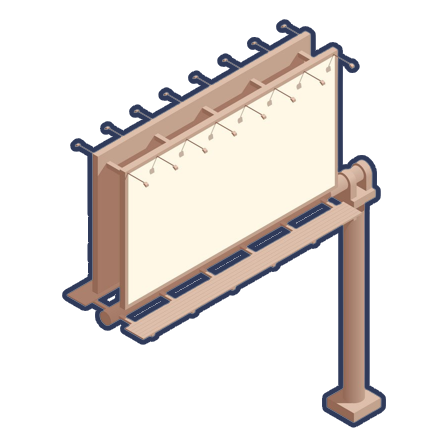
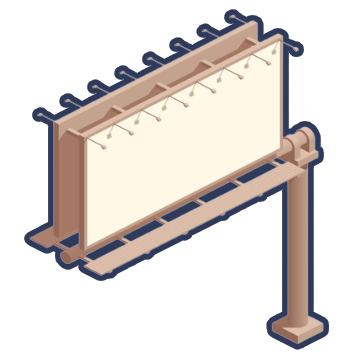
developed billboard

Changed region(s): [[0.0616, 0.0309, 0.9244, 0.9888]]

diff --git a/src/HonkTrooper/HonkTrooper/Pages/HonkBomberPage.xaml.cs b/src/HonkTrooper/HonkTrooper/Pages/HonkBomberPage.xaml.cs
@@ -1231,6 +1231,93 @@ namespace HonkTrooper
 
         #endregion
 
+        #region RoadSideBillboard
+
+        private bool SpawnRoadSideBillboards()
+        {
+            for (int i = 0; i < 3; i++)
+            {
+                RoadSideBillboard roadSideBillboard = new(
+                    animateAction: AnimateRoadSideBillboard,
+                    recycleAction: RecycleRoadSideBillboard);
+
+                roadSideBillboard.SetPosition(
+                    left: -3000,
+                    top: -3000);
+
+                _scene_game.AddToScene(roadSideBillboard);
+
+                SpawnDropShadow(source: roadSideBillboard);
+            }
+
+            return true;
+        }
+
+        private bool GenerateRoadSideBillboardTop()
+        {
+            if (_scene_game.Children.OfType<RoadSideBillboard>().FirstOrDefault(x => x.IsAnimating == false) is RoadSideBillboard roadSideBillboard)
+            {
+                roadSideBillboard.IsAnimating = true;
+
+                roadSideBillboard.SetPosition(
+                  left: (Constants.DEFAULT_SCENE_WIDTH / 2.1 - roadSideBillboard.Width) - 10,
+                  top: ((roadSideBillboard.Height * 1.5) * -1) - 10,
+                  z: 2);
+
+                SyncDropShadow(roadSideBillboard);
+
+                LoggerExtensions.Log("RoadSideBillboard generated.");
+
+                return true;
+            }
+
+            return false;
+        }
+
+        private bool GenerateRoadSideBillboardBottom()
+        {
+            if (_scene_game.Children.OfType<RoadSideBillboard>().FirstOrDefault(x => x.IsAnimating == false) is RoadSideBillboard tree)
+            {
+                tree.IsAnimating = true;
+
+                tree.SetPosition(
+                  left: (-1.9 * tree.Width),
+                  top: (Constants.DEFAULT_SCENE_HEIGHT / 3),
+                  z: 4);
+
+                SyncDropShadow(tree);
+
+                return true;
+            }
+
+            return false;
+        }
+
+        private bool AnimateRoadSideBillboard(Construct roadSideBillboard)
+        {
+            var speed = (_scene_game.Speed + roadSideBillboard.SpeedOffset);
+            MoveConstructBottomRight(construct: roadSideBillboard, speed: speed);
+            return true;
+        }
+
+        private bool RecycleRoadSideBillboard(Construct roadSideBillboard)
+        {
+            var hitBox = roadSideBillboard.GetHitBox();
+
+            if (hitBox.Top > Constants.DEFAULT_SCENE_HEIGHT || hitBox.Left > Constants.DEFAULT_SCENE_WIDTH)
+            {
+                roadSideBillboard.IsAnimating = false;
+
+                roadSideBillboard.SetPosition(
+                    left: -3000,
+                    top: -3000);
+            }
+
+            return true;
+        }
+
+        #endregion
+
         #region Honk
 
         private bool SpawnHonks()
@@ -3179,6 +3266,11 @@ namespace HonkTrooper
                 startUpAction: SpawnRoadSideStripes));
 
             _scene_game.AddToScene(
+
+                  new Generator(
+                   generationDelay: 120,
+                   generationAction: GenerateRoadSideBillboardTop,
+                   startUpAction: SpawnRoadSideBillboards),
 
                 new Generator(
                    generationDelay: 90,

diff --git a/src/HonkTrooper/HonkTrooper/Constructs/RoadSideBillboard.cs b/src/HonkTrooper/HonkTrooper/Constructs/RoadSideBillboard.cs
@@ -1,0 +1,53 @@
+using Microsoft.UI.Xaml.Controls;
+using Microsoft.UI.Xaml.Media.Imaging;
+using System;
+using System.Linq;
+
+namespace HonkTrooper
+{
+    public partial class RoadSideBillboard : Construct
+    {
+        #region Fields
+
+        private readonly Image _content_image;
+        private readonly Uri[] _tree_uris;
+
+        #endregion
+
+        #region Ctor
+
+        public RoadSideBillboard(
+            Func<Construct, bool> animateAction,
+            Func<Construct, bool> recycleAction)
+        {
+            ConstructType = ConstructType.ROAD_SIDE_BILLBOARD;
+
+            _tree_uris = Constants.CONSTRUCT_TEMPLATES.Where(x => x.ConstructType == ConstructType.ROAD_SIDE_BILLBOARD).Select(x => x.Uri).ToArray();
+
+            var size = Constants.CONSTRUCT_SIZES.FirstOrDefault(x => x.ConstructType == ConstructType.ROAD_SIDE_BILLBOARD);
+
+            var width = size.Width;
+            var height = size.Height;
+
+            AnimateAction = animateAction;
+            RecycleAction = recycleAction;
+
+            SetSize(width: width, height: height);
+
+            var uri = ConstructExtensions.GetRandomContentUri(_tree_uris);
+
+            _content_image = new Image()
+            {
+                Source = new BitmapImage(uriSource: uri)
+            };
+
+            SetChild(_content_image);
+
+            SpeedOffset = Constants.DEFAULT_SPEED_OFFSET;
+            IsometricDisplacement = Constants.DEFAULT_ISOMETRIC_DISPLACEMENT;
+            DropShadowDistance = -10;
+        }
+
+        #endregion
+    }
+}

diff --git a/src/HonkTrooper/HonkTrooper/Constants.cs b/src/HonkTrooper/HonkTrooper/Constants.cs
@@ -48,8 +48,9 @@ namespace HonkTrooper
             new (ConstructType.ROAD_SIDE_HEDGE, 160, 160),
 
             new (ConstructType.ROAD_SIDE_PATCH, 100, 300),
-            new (ConstructType.ROAD_SIDE_STRIPE, 15, 300),            
+            new (ConstructType.ROAD_SIDE_STRIPE, 15, 300),
             new (ConstructType.ROAD_SIDE_LAMP, 150, 150),
+            new (ConstructType.ROAD_SIDE_BILLBOARD, 350, 350),
 
             new (ConstructType.DROP_SHADOW, 60, 25),
 
@@ -69,7 +70,9 @@ namespace HonkTrooper
 
             new (ConstructType.ROAD_SIDE_LAMP, new Uri("ms-appx:///HonkTrooper/Assets/Images/street_lamp_1.png")),
 
-            new (ConstructType.ROAD_SIDE_HEDGE, new Uri("ms-appx:///HonkTrooper/Assets/Images/hedge_1.png")),            
+            new (ConstructType.ROAD_SIDE_HEDGE, new Uri("ms-appx:///HonkTrooper/Assets/Images/hedge_1.png")),
+
+            new (ConstructType.ROAD_SIDE_BILLBOARD, new Uri("ms-appx:///HonkTrooper/Assets/Images/billboard_1.png")),
 
             new (ConstructType.VEHICLE_SMALL, new Uri("ms-appx:///HonkTrooper/Assets/Images/vehicle_small_1.png")),
             new (ConstructType.VEHICLE_SMALL, new Uri("ms-appx:///HonkTrooper/Assets/Images/vehicle_small_2.png")),
@@ -247,6 +250,7 @@ namespace HonkTrooper
         ROAD_SIDE_TREE,
         ROAD_SIDE_HEDGE,
         ROAD_SIDE_LAMP,
+        ROAD_SIDE_BILLBOARD,
 
         HONK,
 
